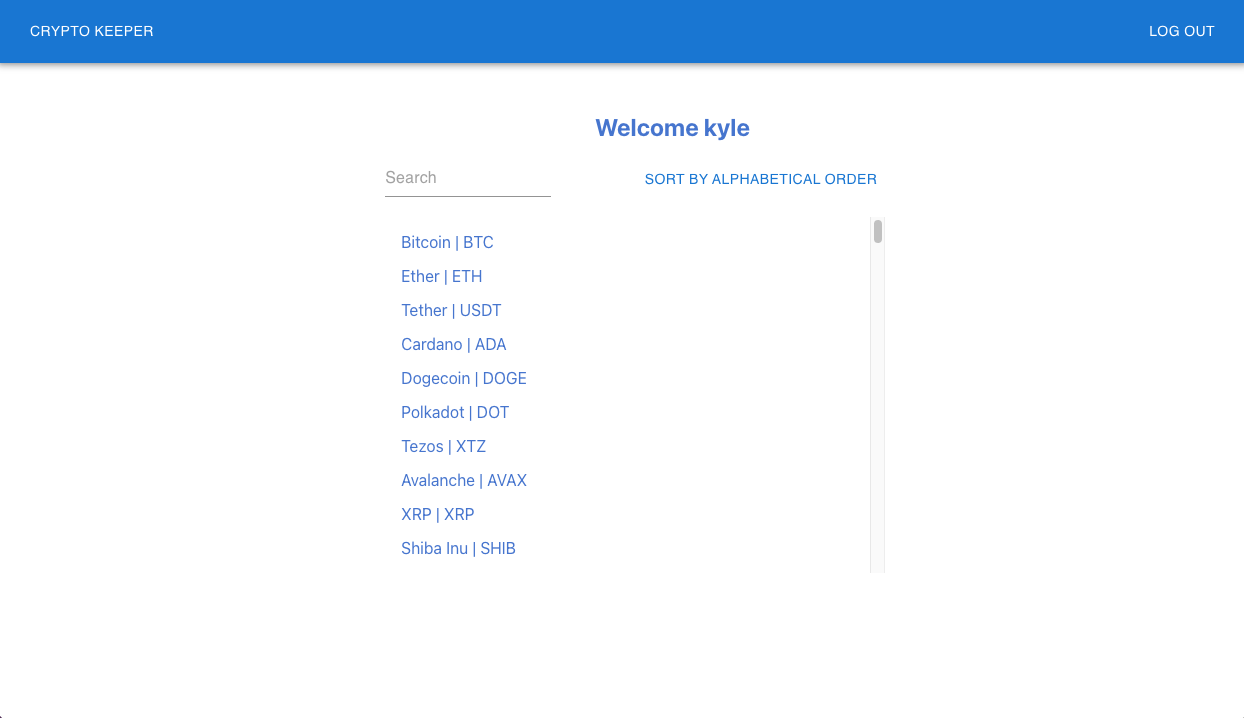
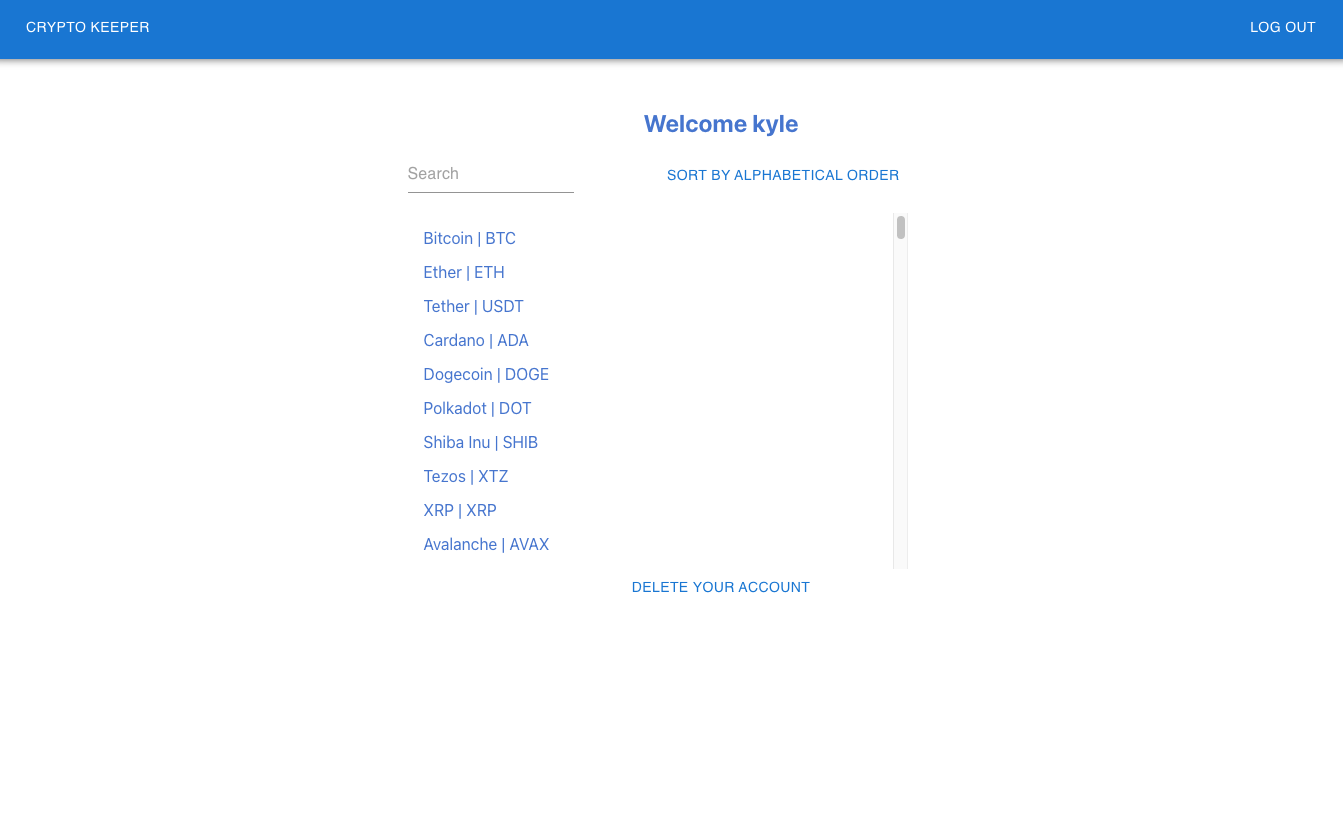
Changed deleteUser queryto also delete users wallets.

diff --git a/backend/src/queries.ts b/backend/src/queries.ts
@@ -92,9 +92,15 @@ const deleteUser = (req:Request, res:Response) => {
     if (error) {
       res.status(404).json(error)
     } else {
-      res.status(200).send('User deleted successfully.')
-    }
-  })
+      pool.query('DELETE FROM user_wallets WHERE user_id = $1', [id], (error: Error, result: any) => {
+        if(error) {
+          res.status(404).json(error)
+        } else {
+          res.status(200).send('User deleted successfully.')
+        }
+      })
+  }
+})
 }
 
 const getUserWallets = (req:Request, res:Response) => {

diff --git a/README.md b/README.md
@@ -38,6 +38,8 @@ PROJECT REQUIREMENTS
   * This app makes use of a Node.js server I created that performs all of those operations, whether on users or their currency wallets
 * Usage of at least 5 UI components from the material-ui/@core library
   * This app uses the Button, AppBar, ToolBar, List, ListItemButton, Input, InputLabel, Select, and MenuItem material-ui components
+* An example of a reusable component that you have created and used in the app
+  * The CurrencyGraph component can take in 
 
 
 LOCAL SETUP
@@ -121,7 +123,7 @@ If they do not yet have an account, the user may click the Sign Up button, which
 
 <img src="./readme_images/signup-page.png" alt="signup page" width='500px' title="Signup Page" />
 
-When the user clicks either the Create Account or Log In button, they are logged in as the current (or recently created) user and redirected to the home page, this time with a personalized welcome message. Where the 'LOG IN / SIGN UP' button was previously is now a 'LOG OUT' button, which will log the user out when clicked.
+When the user clicks either the Create Account or Log In button, they are logged in as the current (or recently created) user and redirected to the home page, this time with a personalized welcome message. Where the 'LOG IN / SIGN UP' button was previously is now a 'LOG OUT' button, which will log the user out when clicked. There will also now be a DELETE YOUR ACCOUNT BUTTON below which will delete the user's profile.
 
 <img src="./readme_images/welcome-user.png" alt="welcome page" width='500px' title="Welcome Page" />
 
